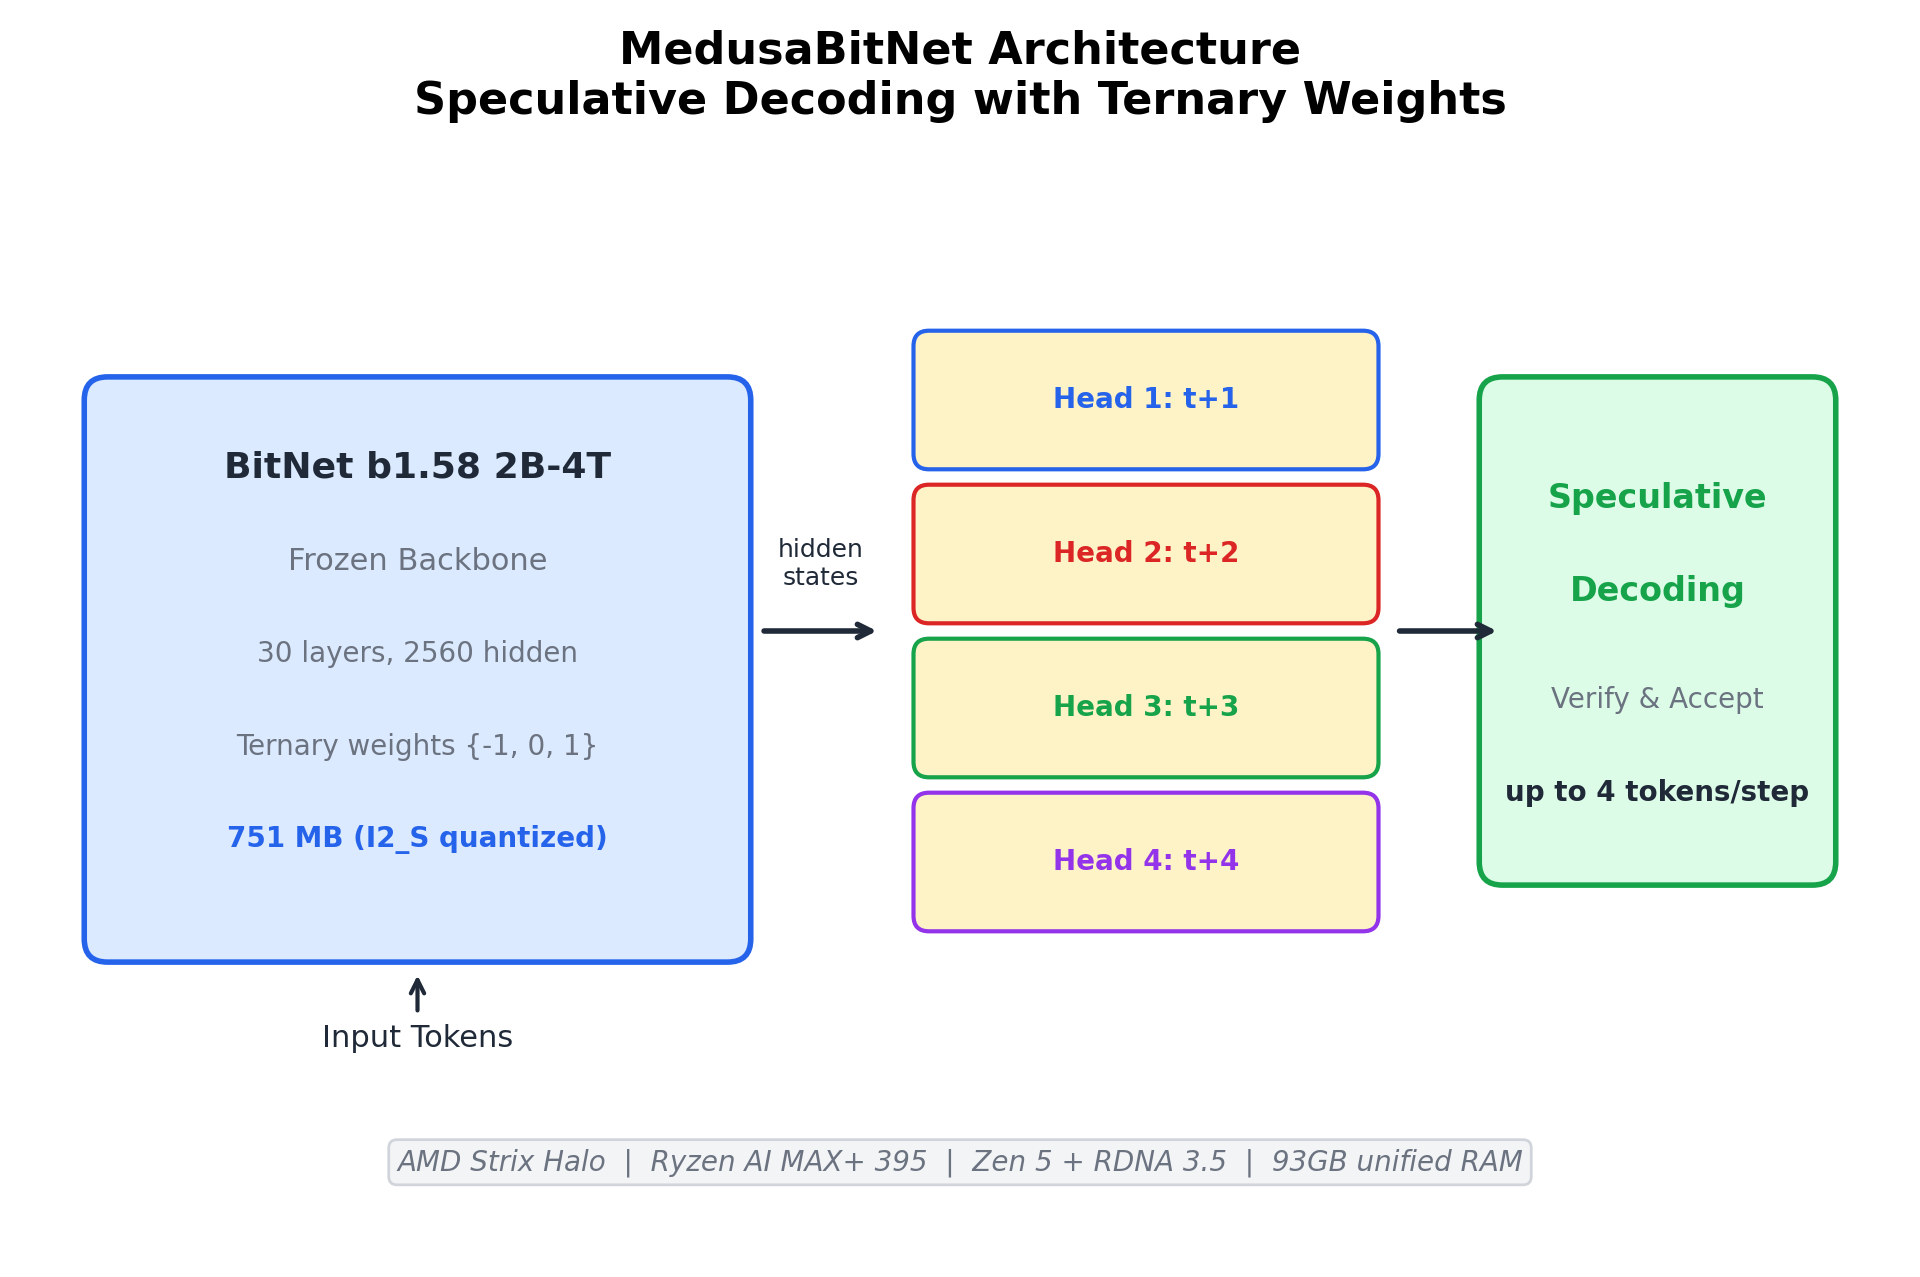
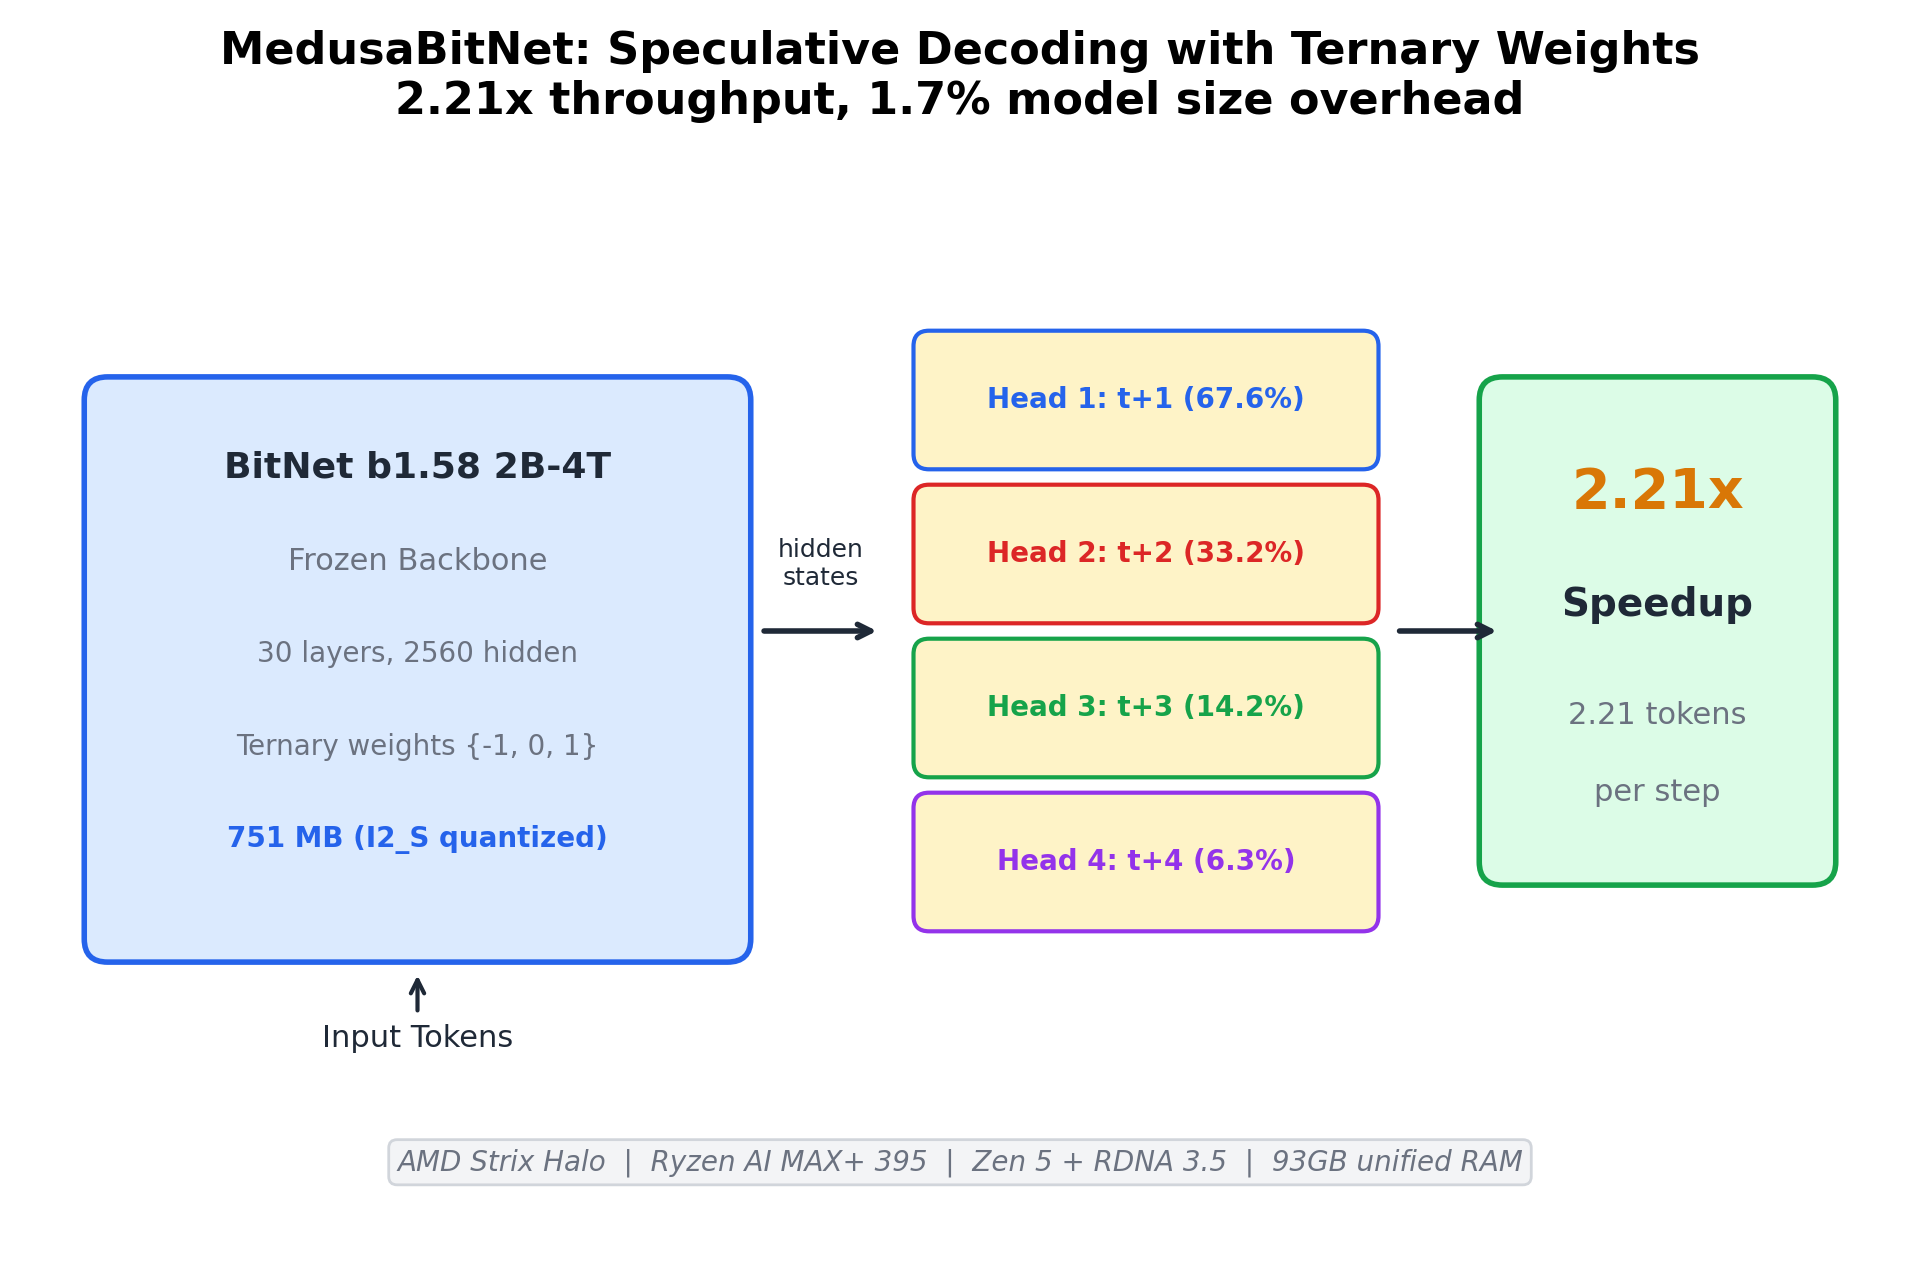
Update charts with real Medusa speculation results
Benchmark on 40K positions (20 sequences, cached hidden states):
- Head 1 (t+1): 67.6% acceptance
- Head 2 (t+2): 33.2% acceptance
- Head 3 (t+3): 14.2% acceptance
- Head 4 (t+4): 6.3% acceptance
- Mean 1.21 extra tokens/step -> 2.21x theoretical speedup

New chart: medusa_speedup.png showing acceptance rates + speedup.
Updated architecture.png and performance_summary.png with real numbers.
Estimated throughput: 75 tok/s vanilla -> 167 tok/s with Medusa.

diff --git a/generate_charts.py b/generate_charts.py
@@ -9,7 +9,6 @@ import os
 OUT = "figures"
 os.makedirs(OUT, exist_ok=True)
 
-# --- Shared style ---
 plt.rcParams.update({
     'font.family': 'sans-serif',
     'font.size': 12,
@@ -20,14 +19,10 @@ plt.rcParams.update({
     'savefig.pad_inches': 0.15,
 })
 
-COLORS = {
-    'blue': '#2563EB',
-    'red': '#DC2626',
-    'green': '#16A34A',
-    'purple': '#9333EA',
-    'orange': '#EA580C',
-    'gray': '#6B7280',
-    'dark': '#1F2937',
+C = {
+    'blue': '#2563EB', 'red': '#DC2626', 'green': '#16A34A',
+    'purple': '#9333EA', 'orange': '#EA580C', 'gray': '#6B7280',
+    'dark': '#1F2937', 'gold': '#D97706',
 }
 
 # ============================================================================
@@ -41,22 +36,21 @@ losses = [9.85, 7.73, 6.42, 5.64, 5.22, 4.90, 4.76, 4.66, 4.55, 4.53,
           3.91, 3.85, 3.73, 3.63, 3.54, 3.50, 3.42, 3.35, 3.34, 3.32]
 
 fig, ax = plt.subplots(figsize=(10, 5))
-ax.plot(steps, losses, color=COLORS['blue'], linewidth=2.5, marker='o', markersize=3)
+ax.plot(steps, losses, color=C['blue'], linewidth=2.5, marker='o', markersize=3)
 ax.set_xlabel('Training Step')
 ax.set_ylabel('Medusa Loss')
 ax.set_title('MedusaBitNet Training Loss\nBitNet b1.58 2B-4T + 4 Medusa Heads')
 ax.set_xlim(0, 2050)
 ax.set_ylim(3, 10.5)
 ax.grid(True, alpha=0.3)
-ax.axhline(y=3.32, color=COLORS['gray'], linestyle='--', alpha=0.5, label='Final: 3.32')
+ax.axhline(y=3.32, color=C['gray'], linestyle='--', alpha=0.5, label='Final: 3.32')
 ax.legend(loc='upper right')
-# Add annotations
 ax.annotate('Loss 9.85', xy=(10, 9.85), xytext=(100, 9.5),
-            arrowprops=dict(arrowstyle='->', color=COLORS['gray']),
-            fontsize=10, color=COLORS['gray'])
+            arrowprops=dict(arrowstyle='->', color=C['gray']),
+            fontsize=10, color=C['gray'])
 ax.annotate('Loss 3.32', xy=(1990, 3.32), xytext=(1700, 4.0),
-            arrowprops=dict(arrowstyle='->', color=COLORS['blue']),
-            fontsize=10, color=COLORS['blue'], fontweight='bold')
+            arrowprops=dict(arrowstyle='->', color=C['blue']),
+            fontsize=10, color=C['blue'], fontweight='bold')
 fig.savefig(f'{OUT}/training_loss.png')
 plt.close()
 print(f"Saved {OUT}/training_loss.png")
@@ -81,10 +75,10 @@ acc4 = [0.016, 0.043, 0.070, 0.074, 0.117, 0.113, 0.102, 0.102, 0.074,
         0.145, 0.113, 0.105, 0.109, 0.148, 0.109, 0.219, 0.160, 0.148, 0.176]
 
 fig, ax = plt.subplots(figsize=(10, 5))
-ax.plot(acc_steps, acc1, color=COLORS['blue'], linewidth=2, label='Head 1 (next token)', marker='o', markersize=2)
-ax.plot(acc_steps, acc2, color=COLORS['red'], linewidth=2, label='Head 2 (t+2)', marker='s', markersize=2)
-ax.plot(acc_steps, acc3, color=COLORS['green'], linewidth=2, label='Head 3 (t+3)', marker='^', markersize=2)
-ax.plot(acc_steps, acc4, color=COLORS['purple'], linewidth=2, label='Head 4 (t+4)', marker='D', markersize=2)
+ax.plot(acc_steps, acc1, color=C['blue'], linewidth=2, label='Head 1 (next token)', marker='o', markersize=2)
+ax.plot(acc_steps, acc2, color=C['red'], linewidth=2, label='Head 2 (t+2)', marker='s', markersize=2)
+ax.plot(acc_steps, acc3, color=C['green'], linewidth=2, label='Head 3 (t+3)', marker='^', markersize=2)
+ax.plot(acc_steps, acc4, color=C['purple'], linewidth=2, label='Head 4 (t+4)', marker='D', markersize=2)
 ax.set_xlabel('Training Step')
 ax.set_ylabel('Top-1 Accuracy')
 ax.set_title('Medusa Head Accuracy During Training\n4 Speculative Heads on BitNet b1.58 2B-4T')
@@ -92,69 +86,105 @@ ax.set_xlim(0, 2050)
 ax.set_ylim(0, 0.8)
 ax.legend(loc='center right')
 ax.grid(True, alpha=0.3)
-# Highlight the "backbone baseline" for head 1
-ax.axhline(y=0.65, color=COLORS['blue'], linestyle=':', alpha=0.3)
-ax.text(1800, 0.66, 'backbone baseline', fontsize=9, color=COLORS['blue'], alpha=0.6)
+ax.axhline(y=0.65, color=C['blue'], linestyle=':', alpha=0.3)
+ax.text(1800, 0.66, 'backbone baseline', fontsize=9, color=C['blue'], alpha=0.6)
 fig.savefig(f'{OUT}/head_accuracy.png')
 plt.close()
 print(f"Saved {OUT}/head_accuracy.png")
 
 # ============================================================================
-# 3. Architecture diagram
+# 3. Medusa vs Vanilla speedup (THE KEY CHART)
+# ============================================================================
+fig, axes = plt.subplots(1, 2, figsize=(13, 5.5))
+
+# Left: acceptance rates
+ax = axes[0]
+heads = ['Head 1\n(t+1)', 'Head 2\n(t+2)', 'Head 3\n(t+3)', 'Head 4\n(t+4)']
+rates = [0.676, 0.332, 0.142, 0.063]
+colors = [C['blue'], C['red'], C['green'], C['purple']]
+bars = ax.bar(heads, rates, color=colors, width=0.55, edgecolor='white', linewidth=1.5)
+for bar, val in zip(bars, rates):
+    ax.text(bar.get_x() + bar.get_width()/2, bar.get_height() + 0.015,
+            f'{val*100:.1f}%', ha='center', fontsize=13, fontweight='bold', color=C['dark'])
+ax.set_ylabel('Acceptance Rate')
+ax.set_title('Medusa Speculative Acceptance Rates\n(greedy verification, 40K positions)')
+ax.set_ylim(0, 0.85)
+ax.grid(axis='y', alpha=0.3)
+
+# Right: speedup comparison
+ax = axes[1]
+methods = ['Vanilla\nBitNet', 'MedusaBitNet\n(4 heads)']
+tokens_per_step = [1.0, 2.21]
+bar_colors = [C['gray'], C['gold']]
+bars = ax.bar(methods, tokens_per_step, color=bar_colors, width=0.45, edgecolor='white', linewidth=1.5)
+for bar, val in zip(bars, tokens_per_step):
+    ax.text(bar.get_x() + bar.get_width()/2, bar.get_height() + 0.05,
+            f'{val:.2f}', ha='center', fontsize=16, fontweight='bold', color=C['dark'])
+ax.set_ylabel('Tokens per Backbone Step')
+ax.set_title('Effective Throughput: 2.21x Speedup\nFirst Medusa + BitNet Integration')
+ax.set_ylim(0, 3.0)
+ax.grid(axis='y', alpha=0.3)
+# Add speedup arrow
+ax.annotate('2.21x', xy=(1, 2.21), xytext=(0.5, 2.6),
+            fontsize=18, fontweight='bold', color=C['gold'],
+            arrowprops=dict(arrowstyle='->', lw=2, color=C['gold']),
+            ha='center')
+
+plt.tight_layout()
+fig.savefig(f'{OUT}/medusa_speedup.png')
+plt.close()
+print(f"Saved {OUT}/medusa_speedup.png")
+
+# ============================================================================
+# 4. Architecture diagram
 # ============================================================================
 fig, ax = plt.subplots(figsize=(12, 7))
 ax.set_xlim(0, 12)
 ax.set_ylim(0, 7)
 ax.axis('off')
-ax.set_title('MedusaBitNet Architecture\nSpeculative Decoding with Ternary Weights', fontsize=16, fontweight='bold', pad=20)
+ax.set_title('MedusaBitNet: Speculative Decoding with Ternary Weights\n2.21x throughput, 1.7% model size overhead', fontsize=16, fontweight='bold', pad=20)
 
-# Backbone block
 backbone = mpatches.FancyBboxPatch((0.5, 2), 4, 3.5, boxstyle="round,pad=0.15",
-                                     facecolor='#DBEAFE', edgecolor=COLORS['blue'], linewidth=2)
+                                     facecolor='#DBEAFE', edgecolor=C['blue'], linewidth=2)
 ax.add_patch(backbone)
-ax.text(2.5, 5.0, 'BitNet b1.58 2B-4T', ha='center', fontsize=13, fontweight='bold', color=COLORS['dark'])
-ax.text(2.5, 4.4, 'Frozen Backbone', ha='center', fontsize=11, color=COLORS['gray'])
-ax.text(2.5, 3.8, '30 layers, 2560 hidden', ha='center', fontsize=10, color=COLORS['gray'])
-ax.text(2.5, 3.2, 'Ternary weights {-1, 0, 1}', ha='center', fontsize=10, color=COLORS['gray'])
-ax.text(2.5, 2.6, '751 MB (I2_S quantized)', ha='center', fontsize=10, fontweight='bold', color=COLORS['blue'])
+ax.text(2.5, 5.0, 'BitNet b1.58 2B-4T', ha='center', fontsize=13, fontweight='bold', color=C['dark'])
+ax.text(2.5, 4.4, 'Frozen Backbone', ha='center', fontsize=11, color=C['gray'])
+ax.text(2.5, 3.8, '30 layers, 2560 hidden', ha='center', fontsize=10, color=C['gray'])
+ax.text(2.5, 3.2, 'Ternary weights {-1, 0, 1}', ha='center', fontsize=10, color=C['gray'])
+ax.text(2.5, 2.6, '751 MB (I2_S quantized)', ha='center', fontsize=10, fontweight='bold', color=C['blue'])
 
-# Hidden state arrow
 ax.annotate('', xy=(5.5, 4), xytext=(4.7, 4),
-            arrowprops=dict(arrowstyle='->', lw=2, color=COLORS['dark']))
-ax.text(5.1, 4.3, 'hidden\nstates', ha='center', fontsize=9, color=COLORS['dark'])
+            arrowprops=dict(arrowstyle='->', lw=2, color=C['dark']))
+ax.text(5.1, 4.3, 'hidden\nstates', ha='center', fontsize=9, color=C['dark'])
 
-# Medusa heads
-for i, (y, label, color) in enumerate([
-    (5.5, 'Head 1: t+1', COLORS['blue']),
-    (4.5, 'Head 2: t+2', COLORS['red']),
-    (3.5, 'Head 3: t+3', COLORS['green']),
-    (2.5, 'Head 4: t+4', COLORS['purple']),
+for i, (y, label, acc, color) in enumerate([
+    (5.5, 'Head 1: t+1', '67.6%', C['blue']),
+    (4.5, 'Head 2: t+2', '33.2%', C['red']),
+    (3.5, 'Head 3: t+3', '14.2%', C['green']),
+    (2.5, 'Head 4: t+4', '6.3%', C['purple']),
 ]):
     head = mpatches.FancyBboxPatch((5.8, y-0.35), 2.8, 0.7, boxstyle="round,pad=0.1",
                                      facecolor='#FEF3C7', edgecolor=color, linewidth=1.5)
     ax.add_patch(head)
-    ax.text(7.2, y, label, ha='center', va='center', fontsize=10, fontweight='bold', color=color)
+    ax.text(7.2, y, f'{label} ({acc})', ha='center', va='center', fontsize=10, fontweight='bold', color=color)
 
-# Speculative output
 ax.annotate('', xy=(9.5, 4), xytext=(8.8, 4),
-            arrowprops=dict(arrowstyle='->', lw=2, color=COLORS['dark']))
+            arrowprops=dict(arrowstyle='->', lw=2, color=C['dark']))
 
 spec = mpatches.FancyBboxPatch((9.5, 2.5), 2, 3, boxstyle="round,pad=0.15",
-                                 facecolor='#DCFCE7', edgecolor=COLORS['green'], linewidth=2)
+                                 facecolor='#DCFCE7', edgecolor=C['green'], linewidth=2)
 ax.add_patch(spec)
-ax.text(10.5, 4.8, 'Speculative', ha='center', fontsize=12, fontweight='bold', color=COLORS['green'])
-ax.text(10.5, 4.2, 'Decoding', ha='center', fontsize=12, fontweight='bold', color=COLORS['green'])
-ax.text(10.5, 3.5, 'Verify & Accept', ha='center', fontsize=10, color=COLORS['gray'])
-ax.text(10.5, 2.9, 'up to 4 tokens/step', ha='center', fontsize=10, fontweight='bold', color=COLORS['dark'])
+ax.text(10.5, 4.8, '2.21x', ha='center', fontsize=20, fontweight='bold', color=C['gold'])
+ax.text(10.5, 4.1, 'Speedup', ha='center', fontsize=14, fontweight='bold', color=C['dark'])
+ax.text(10.5, 3.4, '2.21 tokens', ha='center', fontsize=11, color=C['gray'])
+ax.text(10.5, 2.9, 'per step', ha='center', fontsize=11, color=C['gray'])
 
-# Input
-ax.text(2.5, 1.3, 'Input Tokens', ha='center', fontsize=11, color=COLORS['dark'])
+ax.text(2.5, 1.3, 'Input Tokens', ha='center', fontsize=11, color=C['dark'])
 ax.annotate('', xy=(2.5, 1.8), xytext=(2.5, 1.5),
-            arrowprops=dict(arrowstyle='->', lw=1.5, color=COLORS['dark']))
+            arrowprops=dict(arrowstyle='->', lw=1.5, color=C['dark']))
 
-# Platform info
 ax.text(6, 0.5, 'AMD Strix Halo  |  Ryzen AI MAX+ 395  |  Zen 5 + RDNA 3.5  |  93GB unified RAM',
-        ha='center', fontsize=10, color=COLORS['gray'], style='italic',
+        ha='center', fontsize=10, color=C['gray'], style='italic',
         bbox=dict(boxstyle='round,pad=0.3', facecolor='#F3F4F6', edgecolor='#D1D5DB'))
 
 fig.savefig(f'{OUT}/architecture.png')
@@ -162,34 +192,35 @@ plt.close()
 print(f"Saved {OUT}/architecture.png")
 
 # ============================================================================
-# 4. Performance summary bar chart
+# 5. Performance summary
 # ============================================================================
 fig, axes = plt.subplots(1, 2, figsize=(12, 5))
 
-# Left: throughput
-categories = ['Prompt\nEval', 'Token\nGeneration']
-vanilla_perf = [355, 75.4]  # avg from benchmarks
+# Left: throughput with Medusa speedup
 ax = axes[0]
-bars = ax.bar(categories, vanilla_perf, color=[COLORS['blue'], COLORS['blue']], width=0.5, edgecolor='white')
-ax.set_ylabel('Tokens / Second')
-ax.set_title('BitNet b1.58 2B-4T Throughput\non AMD Strix Halo (Zen 5, 16 threads)')
-for bar, val in zip(bars, vanilla_perf):
-    ax.text(bar.get_x() + bar.get_width()/2, bar.get_height() + 5,
-            f'{val:.0f}', ha='center', fontsize=13, fontweight='bold', color=COLORS['dark'])
-ax.set_ylim(0, 450)
+categories = ['Vanilla\n(75 tok/s)', 'MedusaBitNet\n(est. 166 tok/s)']
+throughput = [75.4, 75.4 * 2.21]
+bar_colors = [C['gray'], C['gold']]
+bars = ax.bar(categories, throughput, color=bar_colors, width=0.45, edgecolor='white', linewidth=1.5)
+for bar, val in zip(bars, throughput):
+    ax.text(bar.get_x() + bar.get_width()/2, bar.get_height() + 3,
+            f'{val:.0f}', ha='center', fontsize=14, fontweight='bold', color=C['dark'])
+ax.set_ylabel('Effective Tokens / Second')
+ax.set_title('Estimated Throughput on Strix Halo\n(Zen 5, 16 threads, I2_S quantized)')
+ax.set_ylim(0, 200)
 ax.grid(axis='y', alpha=0.3)
 
 # Right: model sizes
 ax = axes[1]
 models = ['Backbone\n(I2_S)', '+ Medusa\nHeads (f16)', 'Total\nMedusaBitNet']
 sizes = [751, 13, 764]
-colors_bar = [COLORS['blue'], COLORS['orange'], COLORS['green']]
+colors_bar = [C['blue'], C['orange'], C['green']]
 bars = ax.bar(models, sizes, color=colors_bar, width=0.5, edgecolor='white')
-ax.set_ylabel('Size (MB)')
-ax.set_title('Model Size Breakdown\nMedusa Heads Add Only 1.7% Overhead')
 for bar, val in zip(bars, sizes):
     ax.text(bar.get_x() + bar.get_width()/2, bar.get_height() + 10,
-            f'{val} MB', ha='center', fontsize=12, fontweight='bold', color=COLORS['dark'])
+            f'{val} MB', ha='center', fontsize=12, fontweight='bold', color=C['dark'])
+ax.set_ylabel('Size (MB)')
+ax.set_title('Model Size Breakdown\nMedusa Heads Add Only 1.7% Overhead')
 ax.set_ylim(0, 900)
 ax.grid(axis='y', alpha=0.3)
 
@@ -199,15 +230,15 @@ plt.close()
 print(f"Saved {OUT}/performance_summary.png")
 
 # ============================================================================
-# 5. Training timeline
+# 6. Pipeline timeline
 # ============================================================================
 fig, ax = plt.subplots(figsize=(10, 3))
 
 stages = [
-    ('Tokenize', 0, 0.5, COLORS['green']),
-    ('Cache Hidden\nStates (CPU)', 0.5, 4.6, COLORS['blue']),
-    ('Train Medusa\nHeads (CPU)', 5.1, 6.8, COLORS['red']),
-    ('Convert\nGGUF', 11.9, 0.5, COLORS['purple']),
+    ('Tokenize', 0, 0.5, C['green']),
+    ('Cache Hidden\nStates (CPU)', 0.5, 4.6, C['blue']),
+    ('Train Medusa\nHeads (CPU)', 5.1, 6.8, C['red']),
+    ('Convert\nGGUF', 11.9, 0.5, C['purple']),
 ]
 
 for label, start, duration, color in stages:
@@ -221,11 +252,10 @@ ax.set_title('MedusaBitNet Full Pipeline Timeline (AMD Strix Halo)', fontsize=13
 ax.set_yticks([])
 ax.grid(axis='x', alpha=0.3)
 
-# Add time labels
-ax.text(0.25, -0.4, '~30s', ha='center', fontsize=8, color=COLORS['gray'])
-ax.text(2.8, -0.4, '~4.1 hours', ha='center', fontsize=8, color=COLORS['gray'])
-ax.text(8.5, -0.4, '~6.8 hours', ha='center', fontsize=8, color=COLORS['gray'])
-ax.text(12.15, -0.4, '~1 min', ha='center', fontsize=8, color=COLORS['gray'])
+ax.text(0.25, -0.4, '~30s', ha='center', fontsize=8, color=C['gray'])
+ax.text(2.8, -0.4, '~4.1 hours', ha='center', fontsize=8, color=C['gray'])
+ax.text(8.5, -0.4, '~6.8 hours', ha='center', fontsize=8, color=C['gray'])
+ax.text(12.15, -0.4, '~1 min', ha='center', fontsize=8, color=C['gray'])
 
 fig.savefig(f'{OUT}/pipeline_timeline.png')
 plt.close()
